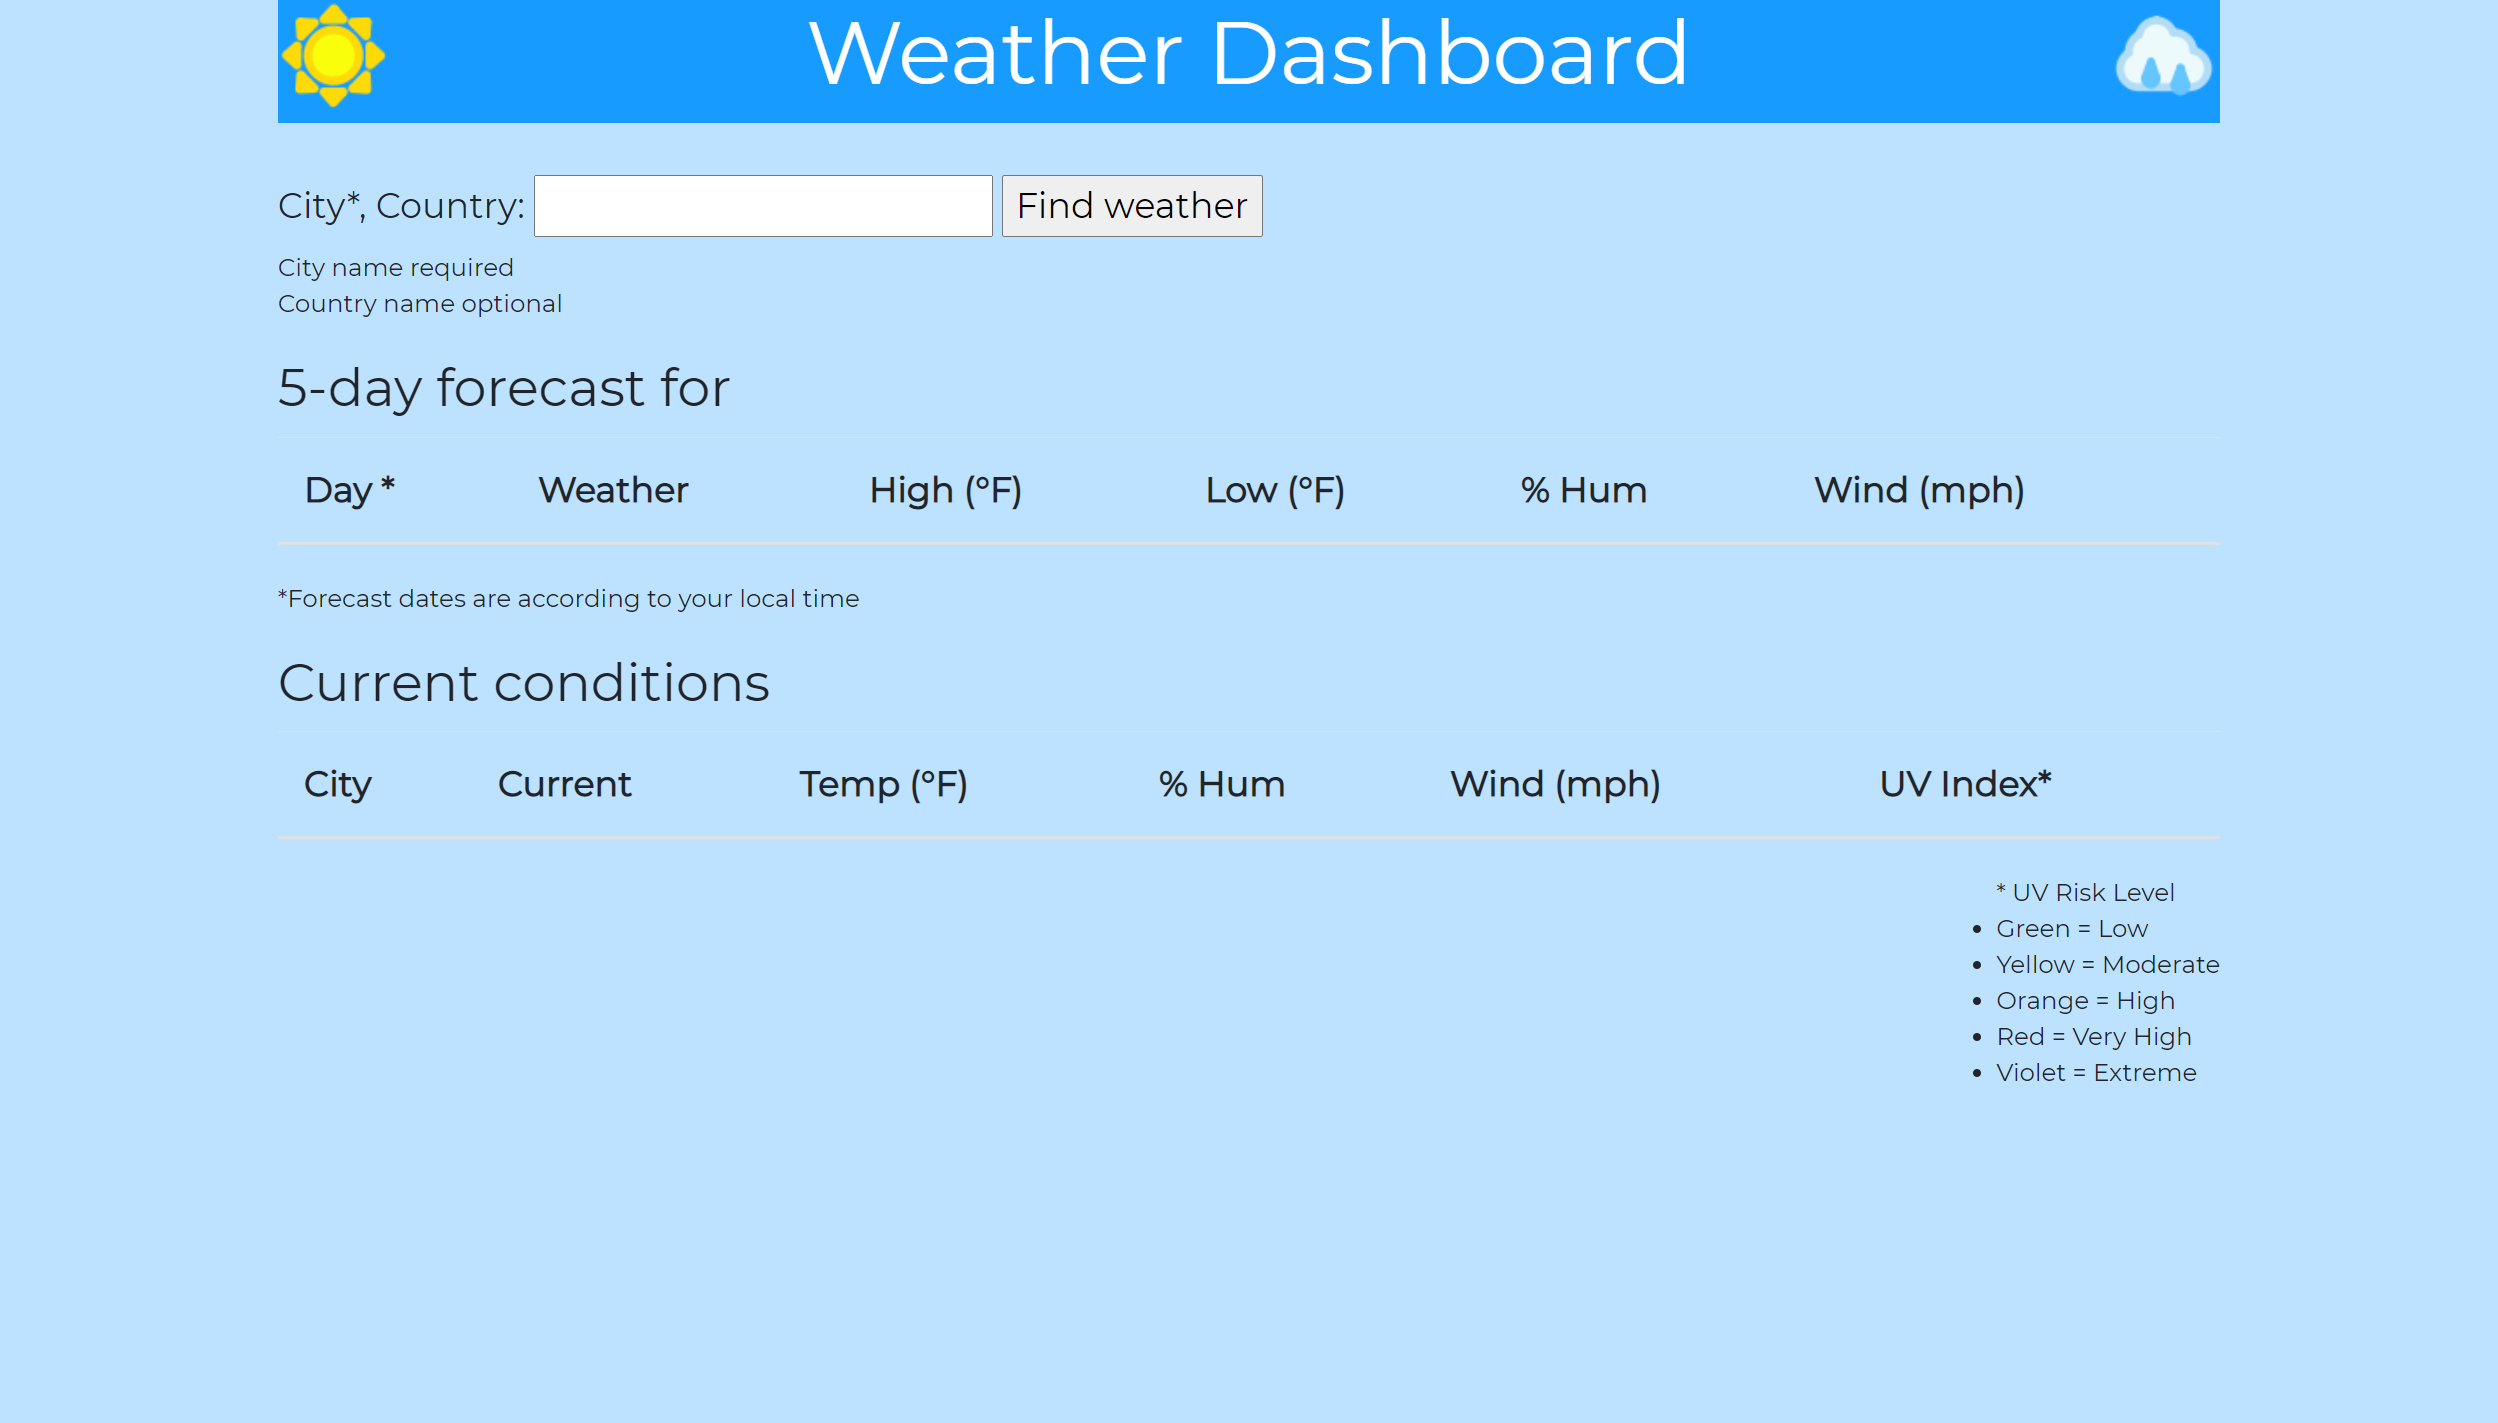
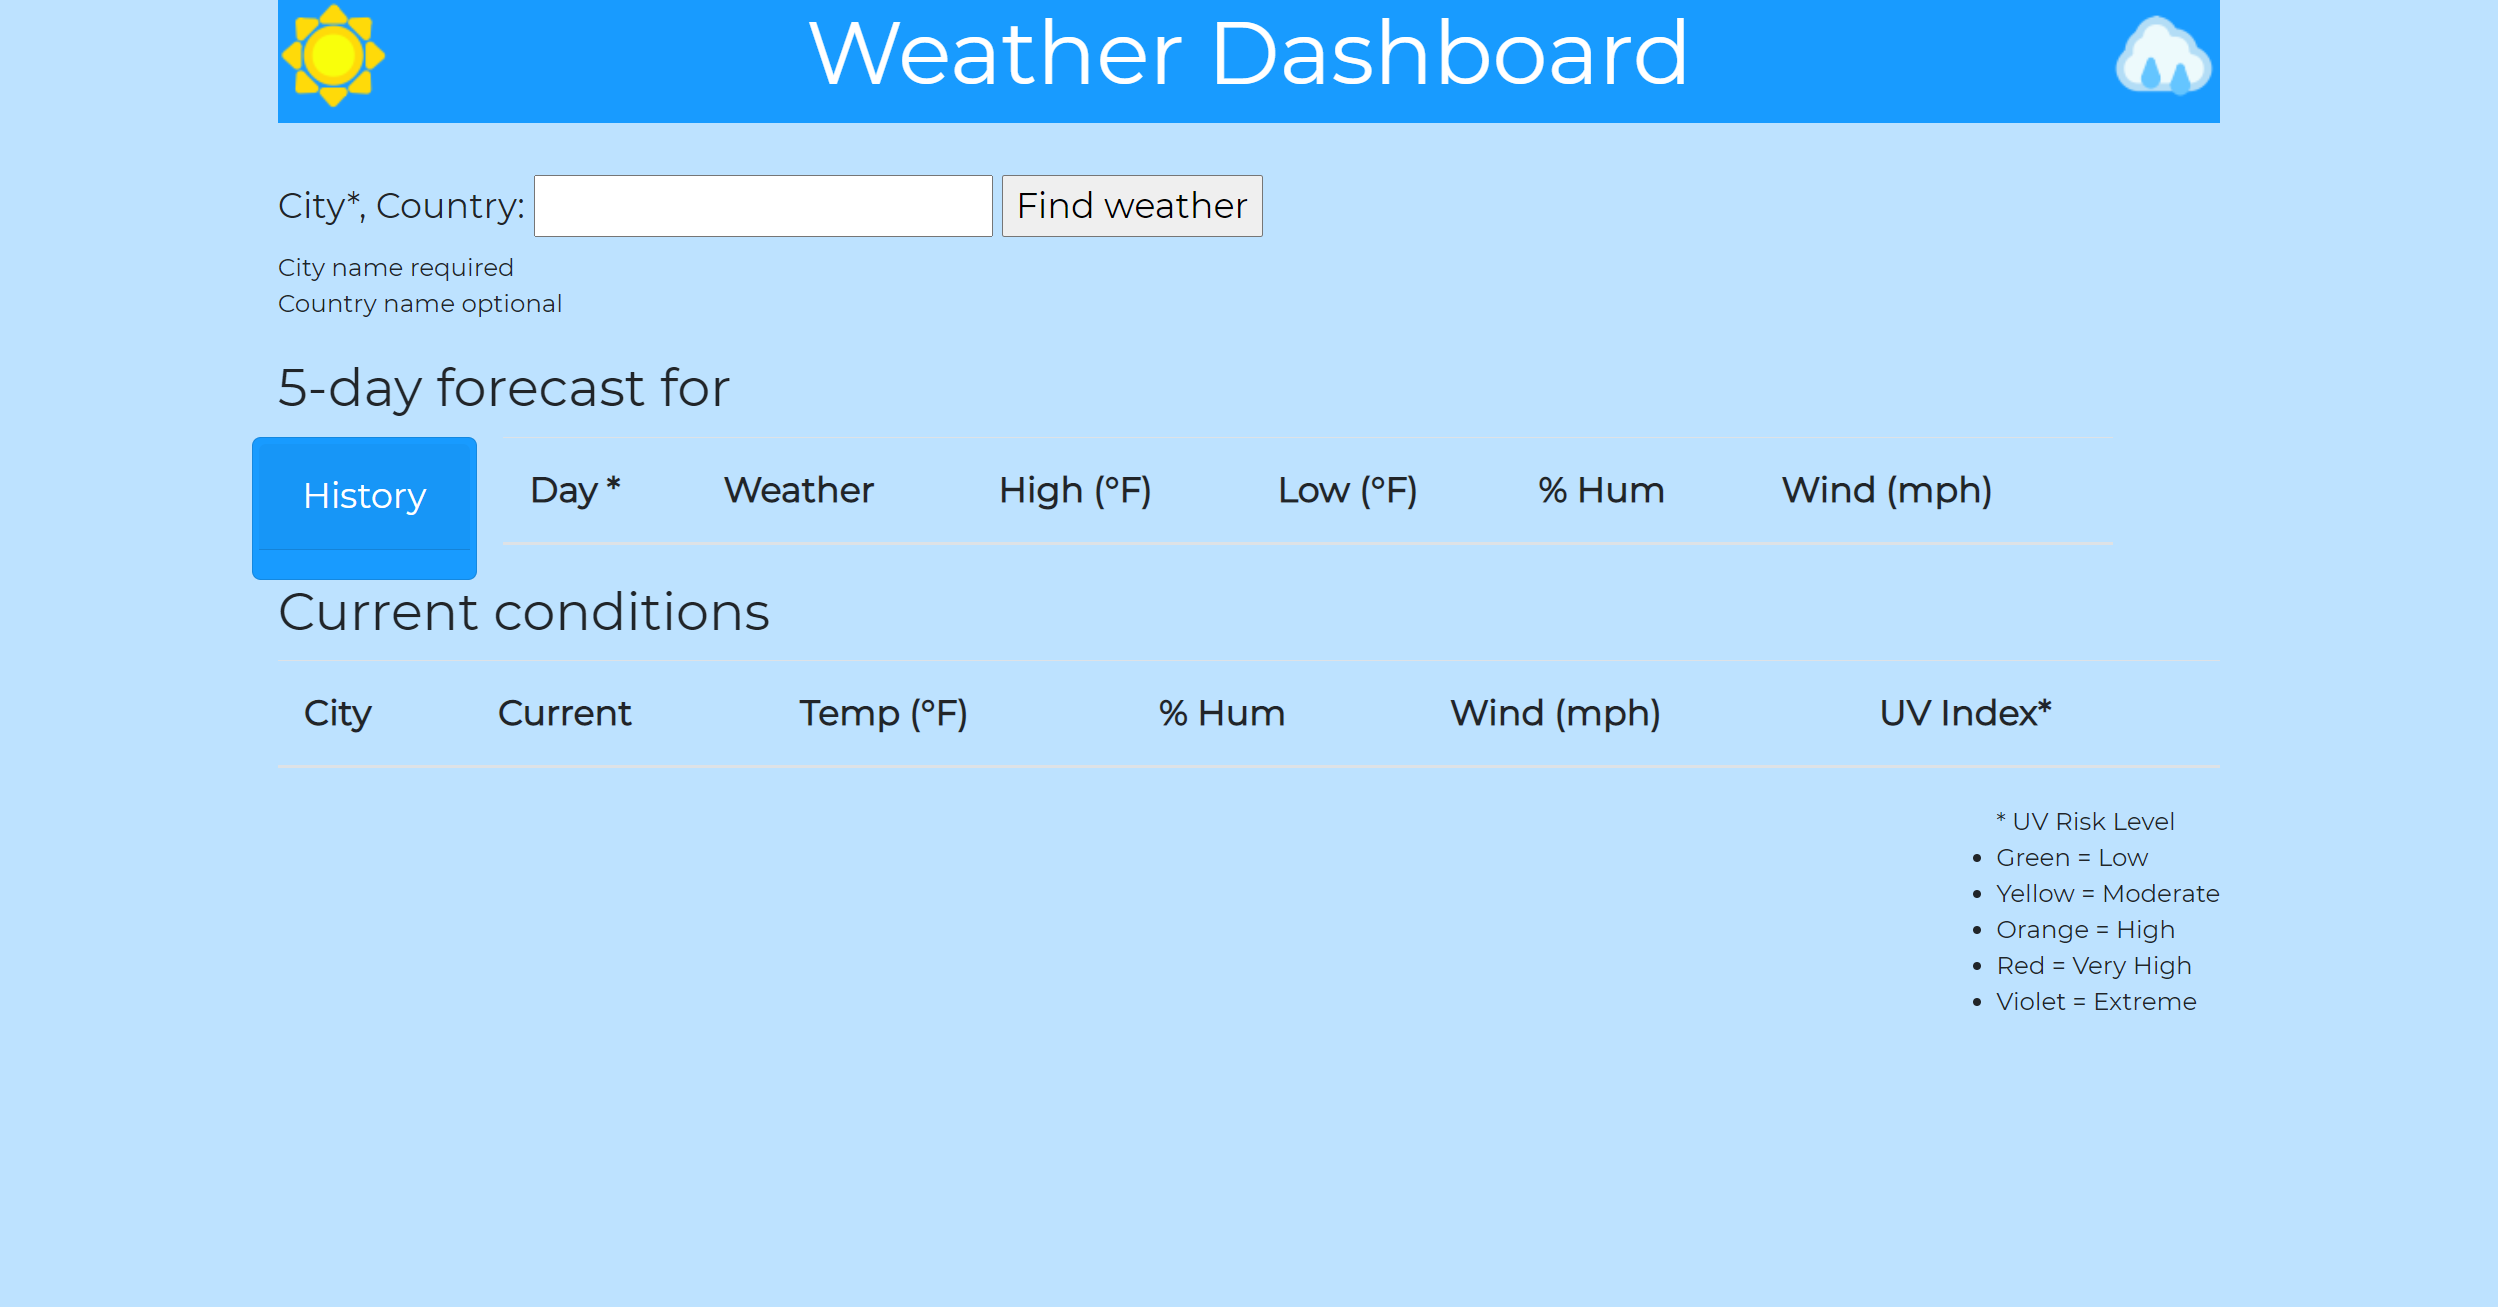
all parts work, ready for submission

diff --git a/script.js b/script.js
@@ -8,15 +8,18 @@ $(document).ready(function () {
 
   // loops through savedCities array and builds a button for each
   function renderButtons() {
+    savedCities = JSON.parse(localStorage.getItem("savedCities"));
+    $("#history").empty();
     $(savedCities).each(function (i) {
-      $("#history").empty();
       var historyButton = $("<button>").text(savedCities[i]).addClass("cityBtn");
-      $("#history").append(historyButton);
+      $("#history").append(historyButton).append("<br />");
     })
   }
 
   // call function for information coming out of local storage
-  renderButtons();
+  if (localStorage.getItem("savedCities") !== null) {
+    renderButtons();
+  }
 
   // When a new city is added, update the array, update local storage (use JSON.stringify), call renderButtons() again
 
@@ -31,14 +34,15 @@ $(document).ready(function () {
     // add last-searched-city data into savedCities[]
     savedCities.push(city);
 
+    // throw savedCities[] into localStorage
+    localStorage.setItem("lastSearched", city);
+    localStorage.setItem("savedCities", JSON.stringify(savedCities));
+
     // callForecast() as soon as city variable is set
     callForecast(city);
 
     // render history buttons with new user input
     renderButtons();
-
-    // pass last-searched-city data into local storage
-    localStorage.setItem("lastSearched", city);
 
     // API query URL
     var queryURL = "https://api.openweathermap.org/data/2.5/weather?q=" + city + "&units=imperial&appid=2278d7ef6a3b88793ffca205108a944e";

diff --git a/README.md b/README.md
@@ -2,7 +2,7 @@
 
 ### Description
 
-This is a weather dashboard using the third-party API from OpenWeather. The user will search a city using the provided text-box. They will then be presented with the name of the city, current date and time for that city, a five-day forecast, and the current conditions for that city. Upon searching for a new city, the forecast and date/time will change to the new city, and the newest search will display at the top of the current conditions, with previous searches moving down. At any time, the user may revisit the forecast for a previous search by clicking on the name of that city in the "current conditions" portion of the page. Upon reloading the page, the user's most recent search will appear in the "forecast" portion of the page.
+This is a weather dashboard using the third-party API from OpenWeather. The user will search a city using the provided text-box. They will then be presented with the name of the city, current date and time for that city, a five-day forecast, and the current conditions for that city. The name of the city will also appear in a button to the left of the forecast, under "History," which the user can click on to repeat the search of that city. Upon searching for a new city, the forecast and date/time will change to the new city; the newest search will display at the top of the current conditions, with previous searches moving down; and a button with the new city will appear in the "history" section. At any time, the user may revisit the forecast for a previous search by clicking on the name of that city in the "current conditions" portion of the page or the "history" portion pf the page. Upon reloading the page, the user's most recent search will appear in the "forecast" portion of the page and their search history will load as clickable buttons in the "history" portion of the page.
 
 Forecast conditions include date, weather, high and low temperatures in Fahrenheit, relative humidity, and wind speed in mph. Current conditions include current weather, temperature in Fahrenheit, relative humidity, wind in mph, and UV index with risk level indicated by color.
 
